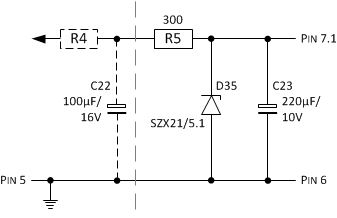
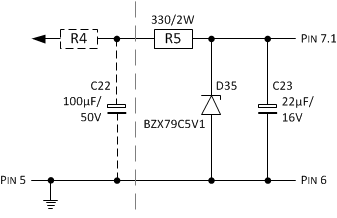
Update power supply

diff --git a/pages/versorgungsspannung.md b/pages/versorgungsspannung.md
@@ -6,35 +6,35 @@ description: Universal LCD Motorrad Tachometer
 
 Im normalen Betrieb liegen die Spannungen im Kfz-Bordnetz bei 12V (10V bis 15V). Kritische Spannungspegel von bis 60V in Folge eines massiven Masseversatzes entstehen vor allem dann, wenn Masseverbindungen wegkorrodiert sind oder die Batteriepolklemmung locker ist. Dem nicht genug, die Versorgungsspannung fällt bis auf 8V beim Anlassen ab, hat ca. 12,6 V sobald das Kfz abgestellt ist, erreicht 14,4 V beim Fahren, 28,8 V beim Jumpstart vom LKW und kennt auch Spannungsspitzen von kurzzeitig -100 V wenn ein Relais abfällt oder +100 V, wenn ein Kabel der Lichtmaschine einen Wackelkontakt hat. Elektrische Kfz-Anlagen/Bauteile werden daher nach einer ISO-Norm (ISO 16750) getestet.
 
-Als Verpolungsschutz sollte eine Diode (z.B. BAV21/250mA, 1N4003/1A, BYV27-200/2A) eingesetzt werden, die den Betriebsstrom und die maximalen Spannungsimpulse (von 100V oder mehr) aushält. Ein Elko 4,7..220μF (je nach Stromstärke) puffert kurze Spannungseinbrüche. Damit der Elko beim Absinken der Versorgungsspannung nicht entladen wird, sollte er in Reihe nach der Diode eingebracht werden. Eine zusätzliche Sicherung oder ein Drahtwiderstand mit hoher Leistung (u.a. auch wegen der Spannungsfestigkeit) dient als Leitungsschutz.
+Als Verpolungsschutz sollte eine Diode (z.B. BAV21/250mA, 1N4003/1A, BYV27-200/2A) eingesetzt werden, die den Betriebsstrom und die maximalen Spannungsimpulse (von 100V oder mehr) aushält. Ein Elko 4,7..220μF (je nach Stromstärke) puffert kurze Spannungseinbrüche. Damit der Elko beim Absinken der Versorgungsspannung nicht entladen wird, sollte er in Reihe nach der Diode eingebracht werden. Eine zusätzliche Sicherung oder ein Drahtwiderstand mit hoher Leistung (u.a. auch wegen der Spannungsfestigkeit) begrenzt den Strom.
 
 Für einfache Anwendungen reicht es, nur gegen zerstörerische Spannungen abzublocken:
 
 ![KFZ-Versorgungsspannung Abb. 1](../images/Versorgungsspannung_1.png)
 
-Um Störungen mit hohen Frequenzen von der Schaltung fernzuhalten, ist ganz vorne am Eingang ein Keramikkondensator von 1..10nF zwischen Versorgungsspannung und Masse sinnvoll, der diese Frequenzen dämpft. Um es noch „sauberer“ zu haben, könnte man anstatt den Sicherungswiderstand eine Drossel mit 47μH setzen.
+Um Störungen mit hohen Frequenzen von der Schaltung fernzuhalten, ist ganz vorne am Eingang ein Keramikkondensator von 1..10nF zwischen Versorgungsspannung und Masse sinnvoll, der diese Frequenzen dämpft. Um es noch _sauberer_ zu haben, könnte man anstatt den Sicherungswiderstand eine Drossel mit 47μH setzen.
 
-Um länger höhere Spannungen von der Schaltung fernhalten, wird eine Überspannungsschutzdiode (TVS-Diode, Transil) eingesetzt, die bei einer Spannung von 28,8V (Spannung für den Jumpstart-Test, Load Dump-Test wird mit 27V angenommen) noch nicht leitet und bei vollem Ableitstrom nicht mehr als die maximal erlaubte Spannung der Bauteile an die Schaltung lässt.
+Um länger höhere Spannungen von der Schaltung fernhalten, wird eine Überspannungsschutzdiode (TVS-Diode, Transil) eingesetzt, die erst bei einer Spannung von 28,5V (Spannung für den Jumpstart-Test ist 28,8V und der Load Dump-Test erfolgt mit 27V) leitet und bei vollem Ableitstrom nicht mehr als die maximal erlaubte Spannung der Bauteile an die Schaltung lässt (absolutes Maximum bei 41,5V mit einem Stromimpuls von 14,4A siehe [Datenblatt](http://www.diodes.com/assets/Datasheets/ds21502.pdf)).
 
-Eine Schaltung die die zwar nicht ein Prüfung nach ISO (7637-1 von 1990 für ein 12V-System) besteht, aber viele Faktoren bereits berücksichtigt, könnte wie folgt aussehen:
+Eine Schaltung die zwar keine Prüfung nach ISO (7637-1 von 1990 für ein 12V-System) besteht, aber viele Faktoren bereits berücksichtigt, könnte wie folgt aussehen:
 
 ![KFZ-Versorgungsspannung Abb. 2](../images/Versorgungsspannung_2.png)
 
-Eine TVS-Diode P6KE33A (Unidirektional) hat eine Durchbruchspannung von 31,4V, leitet sicher bei 34,7V und begrenzt so die maximale Spannung, wenn die Quelle mehr liefert. Nachfolgende Bauteile müssen somit bis zu 35V vertragen. Bei Einsatz einer TVS-Diode kann der Keramikkondensator am Eingang ein 1nF/50V und der Elko ein Kondensator mit z.B. 100μF/50V sein. Da höhere Ströme durch die P6KE33A abfließen können, als für die Schaltung genutzt wird, wurde die Diode UF4003 ausgewählt, die für ein Strom If bis 1A genutzt werden kann (im Vergleich zu einer BAV21). Zudem hat Sie eine Sperrspannung bis 200V (wie eine 1N4003) und weist eine Durchlassspannung UF von 1V auf (nach Datenblatt geringer als bei einer 1N4003).
+Die TVS-Diode P6KE30A (Unidirektional) hat eine Durchbruchspannung von 28,5V, leitet sicher bei 31,5V und begrenzt die maximale Spannung, wenn die Quelle mehr liefert. Nachfolgende Bauteile sollten bis zu ca. 35V vertragen (der dann abzuleitende Strom ist dann schon so hoch, dass der Schutzwiderstand vorher _auslöst_). Bei Einsatz einer TVS-Diode kann der Keramikkondensator am Eingang ein 1nF/50V und der Elko ein Kondensator mit z.B. 100μF/50V sein. Da höhere Ströme durch die P6KE30A abfließen können, wurde die Diode BYV27-200 ausgewählt, die für ein Strom If bis 2A genutzt werden kann. Zudem hat Sie eine Sperrspannung bis 200V und weist eine Durchlassspannung UF von 1V auf.
 
-Mit Zenerdioden kann ein stabilisierter Spannungsausgang mit geringer Restwelligkeit bei wechselnden Laststrombedingungen erzeugt werden. Indem die in Serie geschalteten Zenerdiode einen teil des Stroms von der Spannungsquelle über einen geeigneten Strombegrenzungswiderstand (R5) leiten, wird der Spannungsabfall an Pin 7.1 aufrechterhalten.
+Eine Stabilisierung mittles Zenerdiode ist einfach und ausreichend für die angeschlossenen Schaltungseinheiten. Mit Ihr kann eine einfache stabilisierte Spannungsausgang mit geringer Restwelligkeit bei wechselnden Laststrombedingungen erzeugt werden. 
 
-Eine Stabilisierung mittles Z-Diode ist einfach und ausreichend für die angeschlossenen Schaltungseinheiten. Durch Verwendung zweier 4,3V Zenerdioden (Datenblatt: [BZX79.pdf](http://www.nxp.com/documents/data_sheet/BZX79.pdf)) wird eine spannungsgeregelte Versorgung von 8,6V (Pin 7.1) und eine Referenzspannung von 4,3V (Vref) zur Verfügung gestellt. Der maximale Ausgangsstrom beträgt 10mA, somit ist die Leistungsaufnahme von Vorwiderstand und Z-Dioden gering.
+Indem die Zenerdiode einen Teil des Stroms von der Spannungsquelle über einen geeigneten Strombegrenzungswiderstand (R5) leitet, wird der Spannungsabfall an Pin 7.1 aufrechterhalten. Durch Verwendung einer 5,1V Zenerdiode (Datenblatt: [BZX79.pdf](http://www.nxp.com/documents/data_sheet/BZX79.pdf)) wird eine spannungsgeregelte Versorgung von ca. 5V (+/- 10%) zur Verfügung gestellt. Der maximal benötigte Ausgangsstrom an Pin 7.1 beträgt 10mA, somit kann die Leistungsaufnahme der Z-Dioden gering gehalten werden. Am Vorwiderstand können bis zu 30V (siehe oben) abfallen, daher ist ein Vorwiderstand von 2 Watt nötig.
 
 ![KFZ-Versorgungsspannung Abb. 3](../images/Versorgungsspannung_3.png)
 
-Da die Z-Dioden beim _Versuch_, die Spannung zu stabilisieren, eine elektrische Welligkeit auf der Versorgung erzeugt, kommt ein zusätzlicher Entkopplungskondensators von 22μF/16V zum Einsatz, der kurze Lastspitzen abfängt und die Restwelligkeit der Ausgangsspannung reduziert.
+Da die Z-Diode beim _Versuch_, die Spannung zu stabilisieren, eine elektrische Welligkeit auf der Versorgung erzeugt, kommt ein zusätzlicher Entkopplungskondensator von 22μF/16V zum Einsatz, der kurze Lastspitzen abfängt und die Restwelligkeit der Ausgangsspannung reduziert.
 
-Die Beiden Z-Dioden bilden zusätzlich eine Schutzmaßnahme gegen Überspannung für alle ICs:
+Die Z-Diode ist zudem ein Teil der Schutzmaßnahme gegen Überspannung für alle IC-Eingänge mit entsprechender Dioden-Schutzschaltung gegen Plus:
 
 ![KFZ-Versorgungsspannung Abb. 4](../images/Versorgungsspannung_4.png)
 
-Sobald an einem externen Eingang eine Überspannung erzeugt wird, die über eine Schutzdiodenschaltung nach Plus oder gegen Masse geleitet wird (siehe Abschnitt Kontrollanzeige), fließt ggf. ein genügend schädlicher Strom, der dazu führen kann, dass eines der ICs Schaden nimmt. Die zwei in Serie geschaltetet Z-Dioden sorgen dafür, dass alle Spannungen von externen Eingängen die größer als 8,6V sind, sicher abgeleitet werden (ein [Low-Drop-Spannungsregler](http://de.wikipedia.org/wiki/Spannungsregler) selbst wäre nicht in der Lage einen Rückstrom zu absorbieren). Die Strombegrenzung für die Z-Dioden erfolgt durch den jeweiligen Eingangswiderstand des jeweiligen externen Einganges.
+Sobald an einem externen Eingang eine Überspannung erzeugt wird, die über eine Schutzdiodenschaltung nach Plus oder gegen Masse geleitet wird (siehe Abschnitt Kontrollanzeige), fließt ggf. ein genügend schädlicher Strom, der dazu führen kann, dass eines der ICs Schaden nimmt. Die Z-Diode sorgt dafür, dass alle Spannungen von externen Eingängen die größer als 5,8V sind, sicher abgeleitet werden (ein [Low-Drop-Spannungsregler](http://de.wikipedia.org/wiki/Spannungsregler) selbst wäre nicht in der Lage einen Rückstrom zu absorbieren). Die Strombegrenzung für die Dioden erfolgt durch den Eingangswiderstand des jeweiligen externen Einganges.
 
 ## Quellen und weiterführende Literatur
 

diff --git a/pages/benzinstandsanzeige.md b/pages/benzinstandsanzeige.md
@@ -6,7 +6,7 @@ description: Universal LCD Motorrad Tachometer
 
 Die Guzzi besitzt keinen Geber und keine Reservelampe. Ein offener Anschluss und Werte größer 90 bzw. 500 Ohm bringen die Füllstandsanzeige des Kombiinstrumentes zum Blinken. Der Anschluss für die Tankanzeige muss daher passend beschaltet werden, da sonst eine blinkende Tankanzeige am Instrument stört. Die einfachste Methode ist es, dass Instrument auf einen Sensor von 500 Ohm umzuprogrammieren und mittels 470 Ohm Widerstand den Anschluss für die Tankanzeige gegen Masse zu schalten. Es wird dann nur der untere Balken angezeigt.
 
-Die Ducati Monster verwendet ein Heißleiter (abk. NTC) als Benzinstandgeber. Der Sensor wird bei ausreichend gefüllten Tank vom Benzin umflossen und ist dadurch kalt. Der innenliegende Heißleiter leitet somit schlecht und verhindert so das Einschalten der zugehörigen Kontrolllampe im Instrument. Sofern der Sensor nicht ausreichend von Benzin umgeben ist, erwärmt sich der Heißleiter (langsam) durch den Stromfluss und verliert (almählich) seinen hohen Anfangswiderstand.
+Die Ducati Monster verwendet ein Heißleiter (abk. NTC) als Benzinstandgeber. Der Sensor wird bei ausreichend gefüllten Tank vom Benzin umflossen und ist dadurch kalt. Der innenliegende Heißleiter leitet somit schlecht und verhindert so das Einschalten der zugehörigen Kontrolllampe im Original-Instrument. Sofern der Sensor nicht ausreichend von Benzin umgeben ist, erwärmt sich der Heißleiter (langsam) durch den Stromfluss und verliert (almählich) seinen hohen Anfangswiderstand.
 
 Aufgrund der Kaltleitereigenschaft einer Glühlampe kommt es zu einem zügigen Umschalten, sofern die Glühwendel auf Betriebstemperatur aufgeheizt ist. Mit steigender Temperatur erhöht sich der elektrische Widerstand und somit der Spannungsabfall an der Glühlampe, womit die Glühlampe die volle elektrische Leistung erhält. 
 
@@ -19,7 +19,7 @@ Tank | Strom | Spannung am Geber | Spannung a.d. Glühlampe
 voll | 10mA  | 12,4V             | 0,2V
 leer | 78mA  | 2,2V              | 10,4V (Kontrollleuchte an)
 
-## Reserveanzeige
+## Tanklevelanzeige
 Die Tanklevelanzeige vom Kombiinstrument arbeitet auf Widerstandbasis. Zur Bestimmung des Widerstanswerte misst das Instrument die Spannung bei einem vorgegebenen konstanten Strom.
 
 Wie bereits weiter oben beschrieben verhält sich der Benzinstandsgeber der Ducati nicht wie ein _Widerstandsgeber_, sondern eher wie ein _Schalter_. Die folgende Schaltung kann daher nur die beiden Zuständen **leer** (Balkenanzeige blinkt, entspricht Widerstand unendlich) oder **voll** (volle Balkenanzeige, Widerstand 10 Ohm) anzeigen. 
@@ -28,7 +28,7 @@ Wie bereits weiter oben beschrieben verhält sich der Benzinstandsgeber der Duca
 
 Der Invertierende [Schmitt-Trigger](http://de.wikipedia.org/wiki/Schmitt-Trigger) wird mit Hilfe eines Komparators ([LM293.pdf](http://www.ti.com/lit/ds/symlink/lm393a.pdf)) realisiert.
 
-Die Referenzspannung wird mittels einer Referenzspannung von 4,3V über einen Eingangswiderstand am positiven Eingang des Komperators angelegt. Ein zusätzlicher Widerstand (hier 330k) sorgt für die Mitkopplung und damit für die Hysterese welche im Verhältnis zum Einsgangswiderstand berechnet wird (bei Single Supply und Rh >> R(pullup)).
+Die Referenzspannung wird mittels einer Z-Diode von 4,3V über einen Eingangswiderstand am positiven Eingang des Komperators angelegt. Ein zusätzlicher Widerstand (hier 330k) sorgt für die Mitkopplung und damit für die Hysterese welche im Verhältnis zum Einsgangswiderstand berechnet wird (bei Single Supply und Rh >> R(pullup)).
 
     R(hys) = Re * (Vcc/(V(high)-V(low)) - 1)
 
@@ -40,7 +40,7 @@ Mit einem Eingangswiderstandswert von 33k und einem Widerstand von 330k für die
 - Sobald am Eingang die Spannung von 3,9V unterschritten wird (Vin < V(low)), geht der Komperator in die positive Sättigung und der NPN Transistor leitet. Am Ausgang liegt ein 10 Ohm Widerstand gegen Masse.
 - Sofern 4,7V überschritten werden (Vin > V(high)), geht der Komperator in die negative Sättigung und der Transitor sperrt. Der Ausgang ist somit unbeschaltet.
 
-Die in Serie geschaltete Schottky Diode BAT41 und Kleinsignaldiode 1N4148 dienen zusammen als Strombegrenzung (ca. 30mA) für den 10 Ohm Widerstand, sprich den über Ausgang _A_ zugeführten Strom.
+Die in Serie geschaltete Schottky Diode BAT41 und Kleinsignaldiode 1N4148 dienen als Strombegrenzung (ca. 30mA) für den 10 Ohm Widerstand, sprich den über Ausgang _Out_ zugeführten Strom.
 
 ## Quellen und weiterführende Literatur
 
